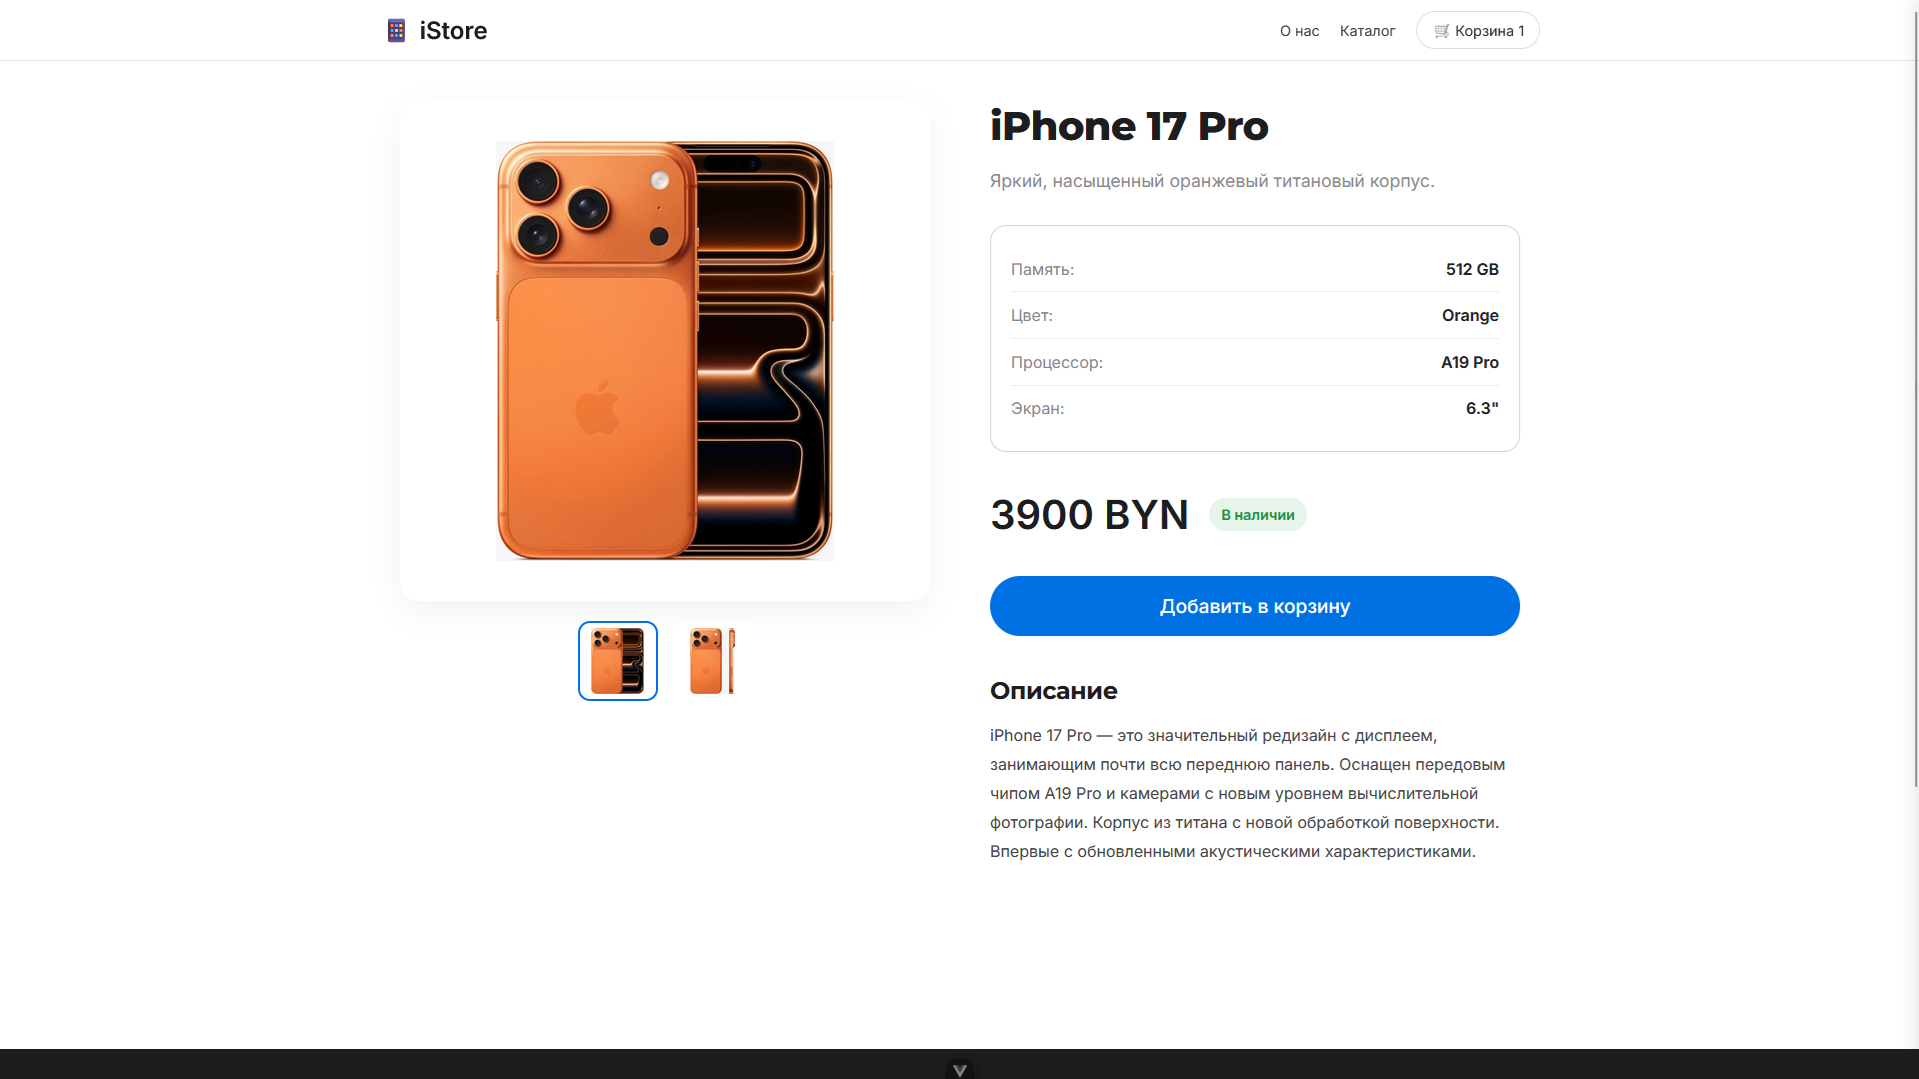
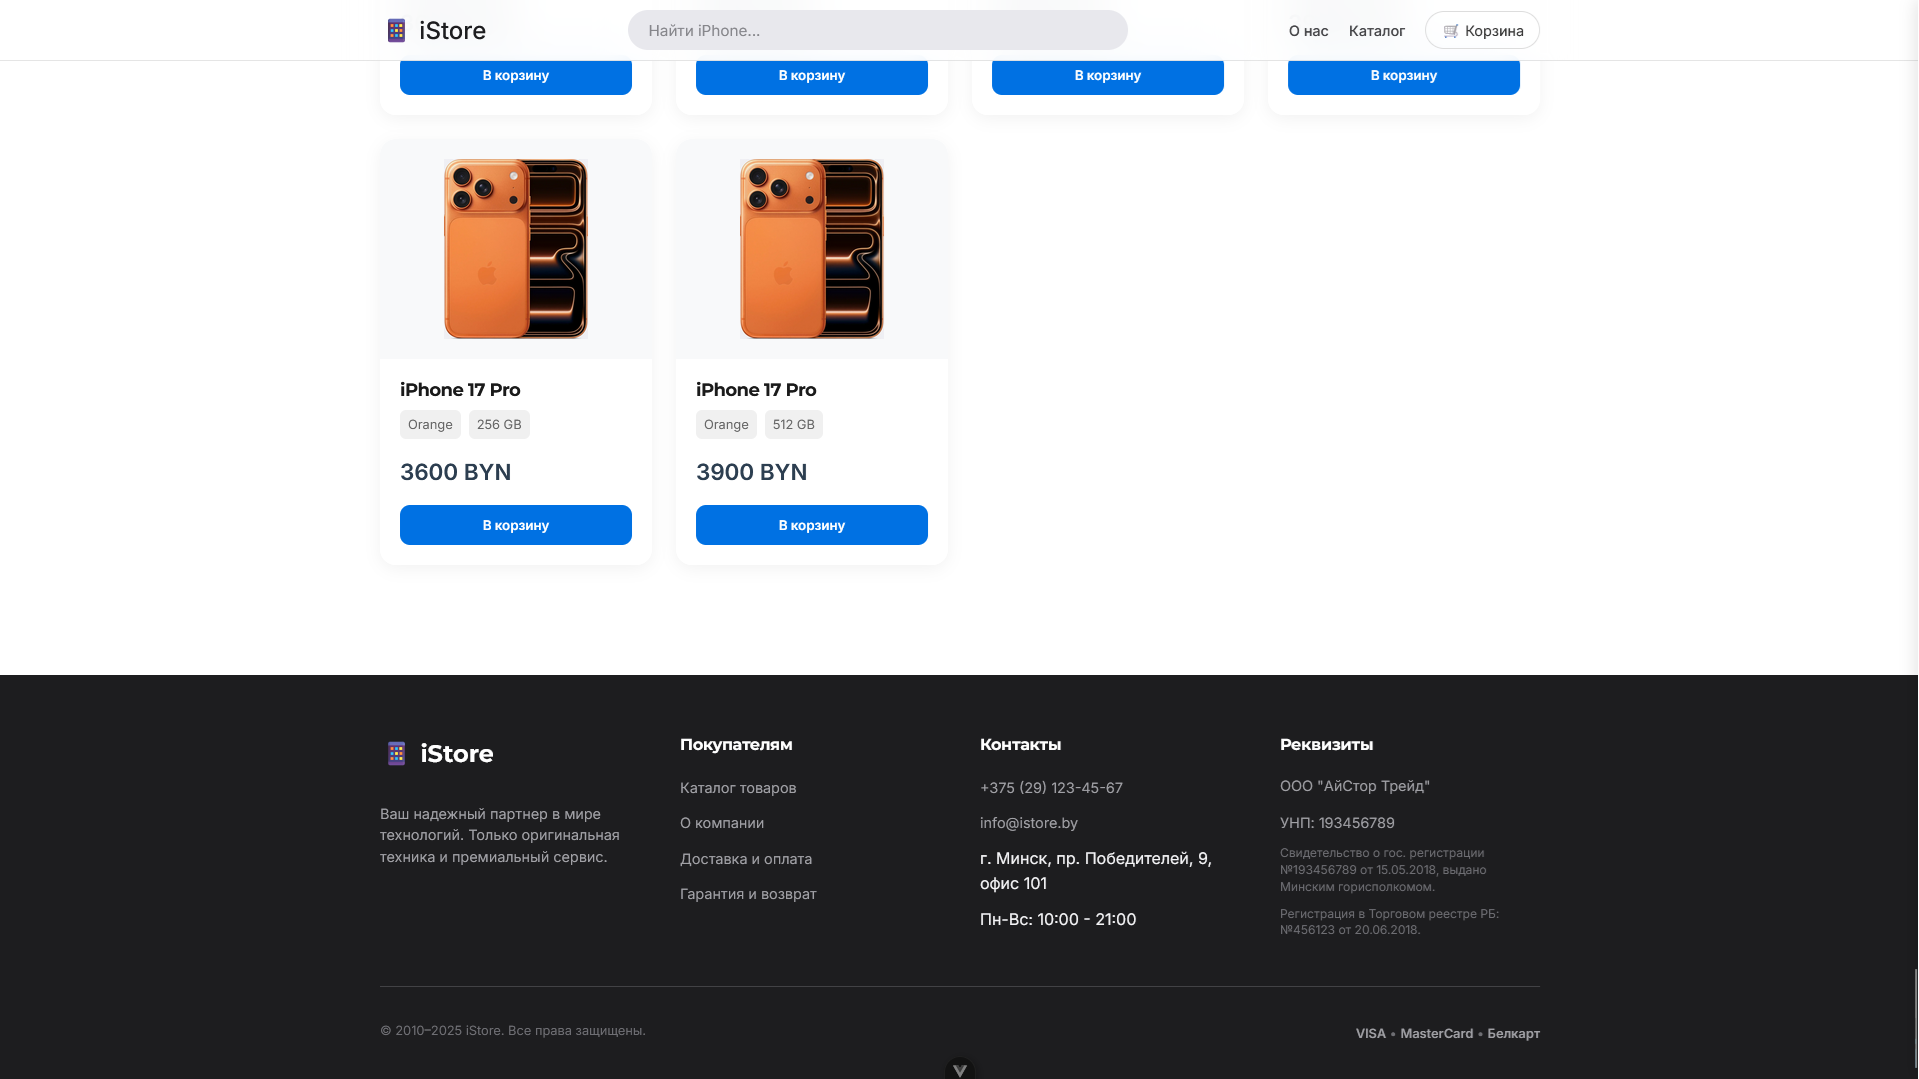
add serch

diff --git a/frontend/src/components/Header.vue b/frontend/src/components/Header.vue
@@ -3,6 +3,23 @@
     <div class="container header-content">
       <router-link :to="{ name: 'home', hash: '#hero' }" class="logo">📱 iStore</router-link>
       
+      <div class="search-container" v-click-outside="closeSearch">
+        <input 
+          type="text" 
+          class="search-input" 
+          placeholder="Найти iPhone..."
+          v-model="searchTerm"
+          @focus="isSearchVisible = true"
+        />
+        
+        <SearchResults 
+          v-if="isSearchVisible && searchTerm.length > 1"
+          :results="searchResults"
+          :loading="cartStore.productsLoading"
+          @click="closeSearch"
+        />
+      </div>
+
       <nav>
         <router-link :to="{ name: 'home', hash: '#about' }">О нас</router-link>
         <router-link :to="{ name: 'home', hash: '#catalog' }">Каталог</router-link>
@@ -19,9 +36,29 @@
 </template>
 
 <script setup>
-import { useCartStore } from '../stores/cart';
-const emit = defineEmits(['open-cart']);
-const cartStore = useCartStore();
+
+  import { ref, computed } from 'vue';
+  import { useCartStore } from '../stores/cart';
+  import SearchResults from './SearchResults.vue';
+
+  const cartStore = useCartStore();
+
+  const searchTerm = ref('');
+  const isSearchVisible = ref(false);
+
+  const searchResults = computed(() => {
+    if (searchTerm.value.length < 2) {
+      return []; 
+    }
+    const query = searchTerm.value.toLowerCase();
+  
+    return cartStore.allProducts.filter(product => 
+      product.model_name.toLowerCase().includes(query)
+    ).slice(0, 10); 
+  });
+
+  const closeSearch = () => { isSearchVisible.value = false; searchTerm.value = ''; };
+
 </script>
 
 <style scoped>
@@ -83,5 +120,36 @@ nav a:hover {
 .cart-btn:hover {
   background: #f5f5f7;
   border-color: #bbb;
+}
+
+.search-container {
+  position: relative;
+  flex-grow: 1; 
+  max-width: 500px; 
+}
+
+.search-input {
+  width: 100%;
+  height: 40px;
+  padding: 0 40px 0 20px;
+  border-radius: 20px;
+  border: 1px solid transparent; 
+  background-color: #e8e8ed; 
+  font-size: 0.95rem;
+  font-family: var(--font-main);
+  color: var(--text-main);
+  transition: all 0.3s ease;
+  margin-left: 20px;
+}
+
+.search-input::placeholder {
+  color: #86868b;
+}
+
+.search-input:focus {
+  outline: none;
+  background-color: white; 
+  border-color: var(--primary-color);
+  box-shadow: 0 0 0 4px rgba(0, 113, 227, 0.15); 
 }
 </style>

diff --git a/frontend/src/components/SearchResults.vue b/frontend/src/components/SearchResults.vue
@@ -1,0 +1,110 @@
+<script setup>
+defineProps({
+  results: Array,
+  loading: Boolean
+});
+</script>
+
+<template>
+  <div class="search-results">
+    <div v-if="loading" class="result-item status-item">Загрузка...</div>
+
+    <div v-else-if="results.length === 0" class="result-item status-item">Ничего не найдено.</div>
+
+    <router-link
+      v-else
+      v-for="product in results"
+      :key="product.id"
+      :to="{ name: 'product', params: { id: product.id } }"
+      class="result-item"
+      target="_blank"
+    >
+
+      <img :src="product.image_url" alt="" class="result-img" v-if="product.image_url">
+      <div v-else class="img-placeholder"></div>
+
+      <div class="result-info">
+        <span class="model-name">{{ product.model_name }}</span>
+        <span class="specs">{{ product.storage_gb }} GB, {{ product.color }}</span>
+      </div>
+
+      <span class="price">{{ product.price }} BYN</span>
+    </router-link>
+  </div>
+</template>
+
+<style scoped>
+.search-results {
+  position: absolute;
+  top: calc(100% + 5px); 
+  left: 0;
+  right: 0;
+  background: white;
+  border: 1px solid #ddd;
+  border-radius: 12px;
+  max-height: 400px;
+  overflow-y: auto;
+  box-shadow: 0 10px 20px rgba(0,0,0,0.1);
+  z-index: 1001; 
+}
+
+.result-item {
+  display: flex;
+  align-items: center;
+  padding: 10px 15px;
+  border-bottom: 1px solid #f0f0f0;
+  text-decoration: none;
+  color: inherit;
+  gap: 15px;
+  transition: background-color 0.2s;
+}
+
+.result-item:last-child {
+  border-bottom: none;
+}
+
+.result-item:hover {
+  background-color: #f9f9f9;
+}
+
+.status-item {
+  color: #888;
+  justify-content: center;
+}
+
+.result-img, .img-placeholder {
+  width: 40px;
+  height: 40px;
+  object-fit: contain;
+  flex-shrink: 0;
+}
+
+.img-placeholder {
+  background-color: #f0f0f0;
+  border-radius: 4px;
+}
+
+.result-info {
+  flex-grow: 1;
+  min-width: 0;
+}
+
+.model-name {
+  font-weight: 600;
+  display: block;
+  white-space: nowrap;
+  overflow: hidden;
+  text-overflow: ellipsis;
+}
+
+.specs {
+  font-size: 0.8rem;
+  color: #888;
+}
+
+.price {
+  font-weight: 600;
+  color: var(--primary-color);
+  white-space: nowrap;
+}
+</style>

diff --git a/frontend/src/components/ProductList.vue b/frontend/src/components/ProductList.vue
@@ -1,9 +1,9 @@
 <template>
   <div class="product-grid">
-    <div v-if="loading" class="status">Загрузка товаров...</div>
+    <div v-if="cartStore.productsLoading" class="status">Загрузка товаров...</div>
     <div v-else-if="error" class="status error">{{ error }}</div>
 
-    <div v-else v-for="product in products" :key="product.id" class="product-card">
+    <div v-else v-for="product in cartStore.allProducts" :key="product.id" class="product-card">
       <router-link :to="{ name: 'product', params: { id: product.id } }" target="_blank" class="image-link">
         <div class="image-wrapper">
           <img 
@@ -32,31 +32,31 @@
 </template>
 
 <script setup>
-import { ref, onMounted } from 'vue';
-import api from '../services/api'; 
+// import { ref, onMounted } from 'vue';
+// import api from '../services/api'; 
 import { useCartStore } from '../stores/cart'; 
 
 const cartStore = useCartStore();
 
-const products = ref([]);
-const error = ref(null);
-const loading = ref(true);
+// const products = ref([]);
+// const error = ref(null);
+// const loading = ref(true);
 
-const fetchProducts = async () => {
-  try {
-    const response = await api.getProducts();
-    products.value = response.data;
-  } catch (err) {
-    console.error('Ошибка:', err);
-    error.value = 'Ошибка загрузки каталога.';
-  } finally {
-    loading.value = false;
-  }
-};
+// const fetchProducts = async () => {
+//   try {
+//     const response = await api.getProducts();
+//     products.value = response.data;
+//   } catch (err) {
+//     console.error('Ошибка:', err);
+//     error.value = 'Ошибка загрузки каталога.';
+//   } finally {
+//     loading.value = false;
+//   }
+// };
 
-onMounted(() => {
-  fetchProducts();
-});
+// onMounted(() => {
+//   fetchProducts();
+// });
 </script>
 
 <style scoped>

diff --git a/frontend/src/stores/cart.js b/frontend/src/stores/cart.js
@@ -1,7 +1,11 @@
 import { defineStore } from 'pinia';
-import { ref, computed, watch } from 'vue'; 
+import { ref, computed, watch } from 'vue';
+import api from '../services/api'; 
 
 export const useCartStore = defineStore('cart', () => {
+
+  const allProducts = ref([]);
+  const productsLoading = ref(false);
 
   const items = ref([]);
   const itemsFromStorage = localStorage.getItem('cartItems');
@@ -58,7 +62,23 @@ export const useCartStore = defineStore('cart', () => {
     items.value = [];
   };
 
+  const fetchAllProducts = async () => {
+    if (allProducts.value.length > 0) return;
+    productsLoading.value = true;
+    try {
+      const response = await api.getProducts();
+      allProducts.value = response.data;
+    } catch (error) {
+      console.error("Не удалось загрузить товары", error);
+    } finally {
+      productsLoading.value = false;
+    }
+  };
+
   return {
+    allProducts,
+    productsLoading,
+    fetchAllProducts,
     items,
     totalItems,
     totalPrice,

diff --git a/frontend/src/App.vue b/frontend/src/App.vue
@@ -9,10 +9,14 @@
 </template>
 
 <script setup>
-  import { ref } from 'vue';
+  import { ref, onMounted  } from 'vue';
   import Header from './components/Header.vue';
   import AppFooter from './components/Footer.vue';
   import CartDrawer from './components/CartDrawer.vue';
+
+  import { useCartStore } from './stores/cart';
+
+  const cartStore = useCartStore();
   
   const isCartOpen = ref(false);
   
@@ -25,6 +29,10 @@
     isCartOpen.value = false;
     document.body.style.overflow = '';
   };
+
+  onMounted(() => {
+    cartStore.fetchAllProducts();
+  });
 </script>
 
 <style scoped>

diff --git a/README.md b/README.md
@@ -4,9 +4,10 @@
 
 ![iStore Preview](./Photo/image1.png) 
 ![iStore Preview](./Photo/image2.png) 
-![iStore Preview](./Photo/image5.png) 
 ![iStore Preview](./Photo/image3.png) 
 ![iStore Preview](./Photo/image4.png) 
+![iStore Preview](./Photo/image5.png) 
+![iStore Preview](./Photo/image6.png) 
 
 ## 🚀 Технологический стек
 
@@ -34,6 +35,7 @@
 
 *   **Каталог товаров:** Отображение списка смартфонов с фото, ценой и характеристиками.
 *   **Страница товара:** Детальная информация, галерея изображений, выбор цвета (реализовано через отдельные товары).
+*   **Поиск:** Поиск интересующего товара по названию.
 *   **Корзина (Drawer):**
     *   Добавление/удаление товаров.
     *   Изменение количества.
@@ -41,7 +43,6 @@
     *   Сохранение корзины при перезагрузке страницы.
     *   Проверка наличия товара на складе (Stock check).
 *   **Оформление заказа:** Форма с валидацией, отправка заказа на сервер, списание товара со склада (транзакция).
-*   **Адаптивность:** Корректное отображение на ПК и мобильных устройствах.
 
 ---
 
